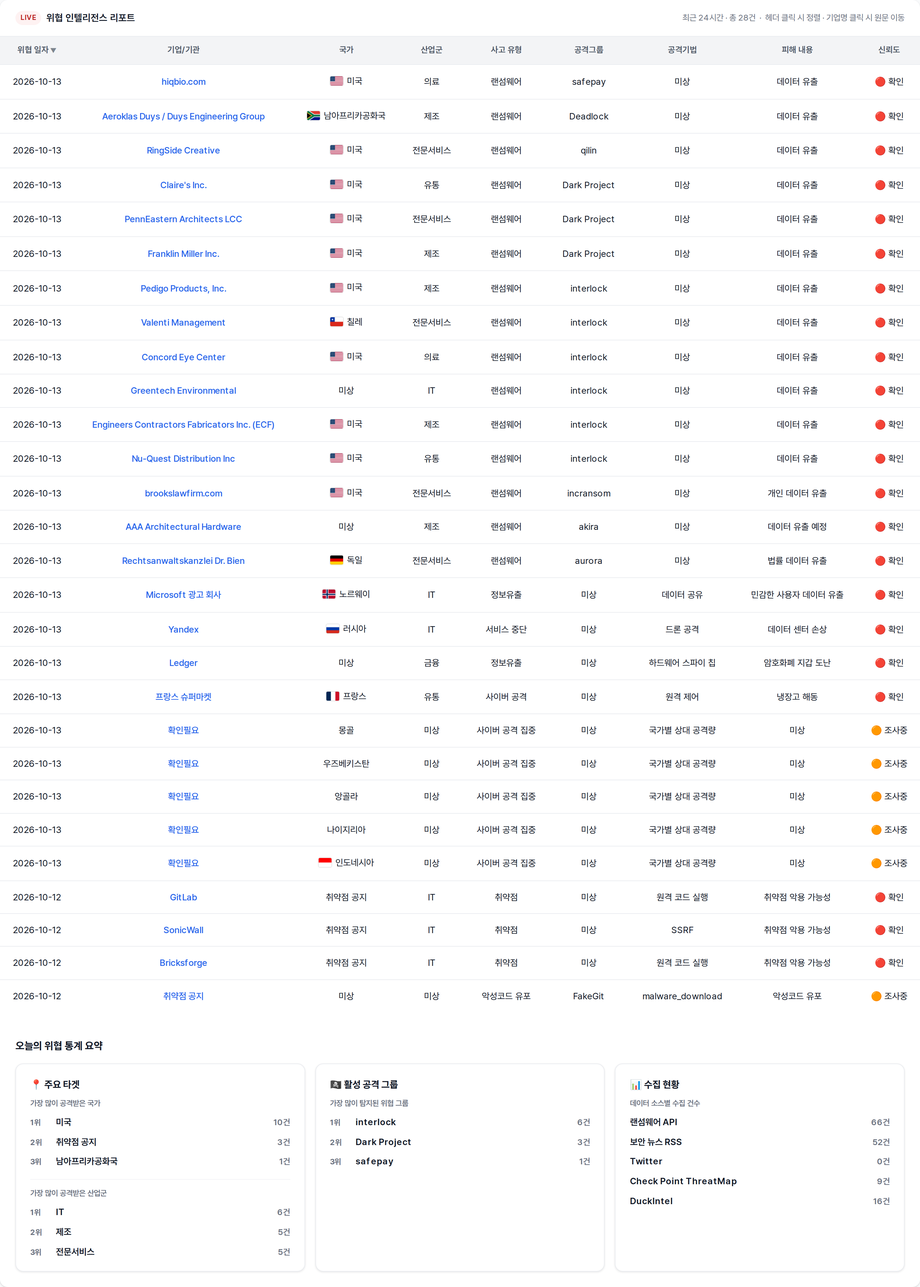
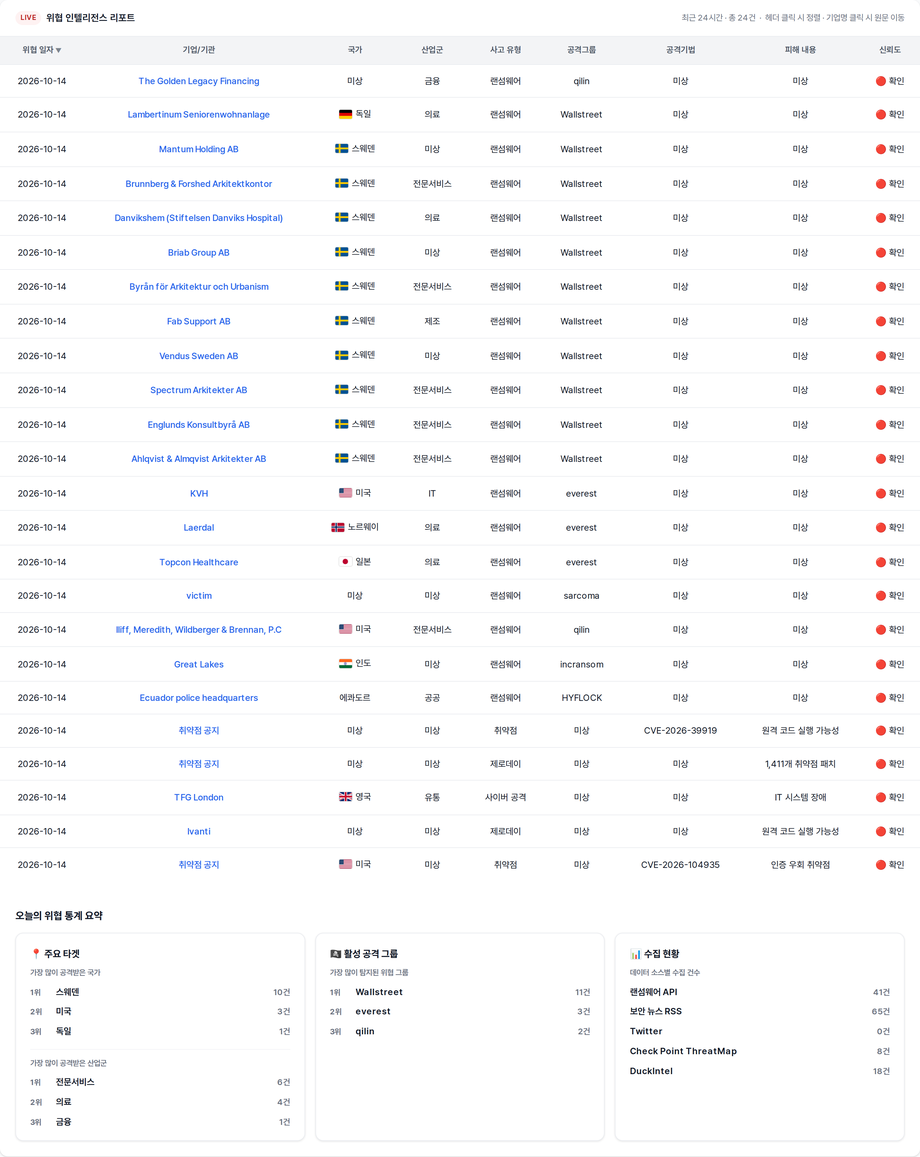
deploy: 9c533ad8fcaa3f846a31aadab046301a26f1192c

diff --git a/index.html b/index.html
@@ -3,7 +3,7 @@
 <head>
   <meta charset="UTF-8" />
   <meta name="viewport" content="width=device-width, initial-scale=1.0" />
-  <title>🚨 2026년 10월 13일 국내/해외 사이버 위협 현황</title>
+  <title>🚨 2026년 10월 14일 국내/해외 사이버 위협 현황</title>
   <link rel="preconnect" href="https://cdn.jsdelivr.net" />
   <link href="https://cdn.jsdelivr.net/gh/orioncactus/pretendard/dist/web/static/pretendard.css" rel="stylesheet" />
   <style>
@@ -253,7 +253,7 @@
 </head>
 <body>
   <div class="page-header">
-    <h1 class="page-title">🚨 2026년 10월 13일 국내/해외 사이버 위협 현황</h1>
+    <h1 class="page-title">🚨 2026년 10월 14일 국내/해외 사이버 위협 현황</h1>
   </div>
 
   <div class="dashboard">
@@ -261,40 +261,36 @@
     <div class="card-header">
       <span class="badge">LIVE</span>
       <span class="card-title">위협 인텔리전스 리포트</span>
-      <span class="card-count">최근 24시간 · 총 28건 &nbsp;·&nbsp; 헤더 클릭 시 정렬 · 기업명 클릭 시 원문 이동</span>
+      <span class="card-count">최근 24시간 · 총 24건 &nbsp;·&nbsp; 헤더 클릭 시 정렬 · 기업명 클릭 시 원문 이동</span>
     </div>
     <div class="table-wrap" style="overflow-x: auto; -webkit-overflow-scrolling: touch;">
       <table id="threat-table">
         <thead><tr><th onclick="sortTable(0)" data-col="0" class="sort-desc">위협 일자</th><th onclick="sortTable(1)" data-col="1">기업/기관</th><th onclick="sortTable(2)" data-col="2">국가</th><th onclick="sortTable(3)" data-col="3">산업군</th><th onclick="sortTable(4)" data-col="4">사고 유형</th><th onclick="sortTable(5)" data-col="5">공격그룹</th><th onclick="sortTable(6)" data-col="6">공격기법</th><th onclick="sortTable(7)" data-col="7">피해 내용</th><th onclick="sortTable(8)" data-col="8">신뢰도</th></tr></thead>
         <tbody>
-<tr><td>2026-10-13</td><td><a href="https://www.ransomware.live/id/aGlxYmlvLmNvbUBzYWZlcGF5" target="_blank" rel="noopener noreferrer">hiqbio.com</a></td><td class="country"><span class="country-cell"><img class="flag" src="https://flagcdn.com/w40/us.png" alt="미국" width="20" height="14" />미국</span></td><td>의료</td><td>랜섬웨어</td><td>safepay</td><td>미상</td><td>데이터 유출</td><td>🔴 확인</td></tr>
-<tr><td>2026-10-13</td><td><a href="https://www.ransomware.live/id/QWVyb2tsYXMgRHV5cyAvIER1eXMgRW5naW5lZXJpbmcgR3JvdXBARGVhZGxvY2s=" target="_blank" rel="noopener noreferrer">Aeroklas Duys / Duys Engineering Group</a></td><td class="country"><span class="country-cell"><img class="flag" src="https://flagcdn.com/w40/za.png" alt="남아프리카공화국" width="20" height="14" />남아프리카공화국</span></td><td>제조</td><td>랜섬웨어</td><td>Deadlock</td><td>미상</td><td>데이터 유출</td><td>🔴 확인</td></tr>
-<tr><td>2026-10-13</td><td><a href="https://www.ransomware.live/id/UmluZ1NpZGUgQ3JlYXRpdmVAcWlsaW4=" target="_blank" rel="noopener noreferrer">RingSide Creative</a></td><td class="country"><span class="country-cell"><img class="flag" src="https://flagcdn.com/w40/us.png" alt="미국" width="20" height="14" />미국</span></td><td>전문서비스</td><td>랜섬웨어</td><td>qilin</td><td>미상</td><td>데이터 유출</td><td>🔴 확인</td></tr>
-<tr><td>2026-10-13</td><td><a href="https://www.ransomware.live/id/Q2xhaXJlJ3MgSW5jLkBEYXJrIFByb2plY3Q=" target="_blank" rel="noopener noreferrer">Claire&#x27;s Inc.</a></td><td class="country"><span class="country-cell"><img class="flag" src="https://flagcdn.com/w40/us.png" alt="미국" width="20" height="14" />미국</span></td><td>유통</td><td>랜섬웨어</td><td>Dark Project</td><td>미상</td><td>데이터 유출</td><td>🔴 확인</td></tr>
-<tr><td>2026-10-13</td><td><a href="https://www.ransomware.live/id/UGVubkVhc3Rlcm4gQXJjaGl0ZWN0cyBMQ0NARGFyayBQcm9qZWN0" target="_blank" rel="noopener noreferrer">PennEastern Architects LCC</a></td><td class="country"><span class="country-cell"><img class="flag" src="https://flagcdn.com/w40/us.png" alt="미국" width="20" height="14" />미국</span></td><td>전문서비스</td><td>랜섬웨어</td><td>Dark Project</td><td>미상</td><td>데이터 유출</td><td>🔴 확인</td></tr>
-<tr><td>2026-10-13</td><td><a href="https://www.ransomware.live/id/RnJhbmtsaW4gTWlsbGVyIEluYy5ARGFyayBQcm9qZWN0" target="_blank" rel="noopener noreferrer">Franklin Miller Inc.</a></td><td class="country"><span class="country-cell"><img class="flag" src="https://flagcdn.com/w40/us.png" alt="미국" width="20" height="14" />미국</span></td><td>제조</td><td>랜섬웨어</td><td>Dark Project</td><td>미상</td><td>데이터 유출</td><td>🔴 확인</td></tr>
-<tr><td>2026-10-13</td><td><a href="https://www.ransomware.live/id/UGVkaWdvIFByb2R1Y3RzLCBJbmMuQGludGVybG9jaw==" target="_blank" rel="noopener noreferrer">Pedigo Products, Inc.</a></td><td class="country"><span class="country-cell"><img class="flag" src="https://flagcdn.com/w40/us.png" alt="미국" width="20" height="14" />미국</span></td><td>제조</td><td>랜섬웨어</td><td>interlock</td><td>미상</td><td>데이터 유출</td><td>🔴 확인</td></tr>
-<tr><td>2026-10-13</td><td><a href="https://www.ransomware.live/id/VmFsZW50aSBNYW5hZ2VtZW50QGludGVybG9jaw==" target="_blank" rel="noopener noreferrer">Valenti Management</a></td><td class="country"><span class="country-cell"><img class="flag" src="https://flagcdn.com/w40/cl.png" alt="칠레" width="20" height="14" />칠레</span></td><td>전문서비스</td><td>랜섬웨어</td><td>interlock</td><td>미상</td><td>데이터 유출</td><td>🔴 확인</td></tr>
-<tr><td>2026-10-13</td><td><a href="https://www.ransomware.live/id/Q29uY29yZCBFeWUgQ2VudGVyQGludGVybG9jaw==" target="_blank" rel="noopener noreferrer">Concord Eye Center</a></td><td class="country"><span class="country-cell"><img class="flag" src="https://flagcdn.com/w40/us.png" alt="미국" width="20" height="14" />미국</span></td><td>의료</td><td>랜섬웨어</td><td>interlock</td><td>미상</td><td>데이터 유출</td><td>🔴 확인</td></tr>
-<tr><td>2026-10-13</td><td><a href="https://www.ransomware.live/id/R3JlZW50ZWNoIEVudmlyb25tZW50YWxAaW50ZXJsb2Nr" target="_blank" rel="noopener noreferrer">Greentech Environmental</a></td><td class="country"><span class="country-cell">미상</span></td><td>IT</td><td>랜섬웨어</td><td>interlock</td><td>미상</td><td>데이터 유출</td><td>🔴 확인</td></tr>
-<tr><td>2026-10-13</td><td><a href="https://www.ransomware.live/id/RW5naW5lZXJzIENvbnRyYWN0b3JzIEZhYnJpY2F0b3JzIEluYy4gKEVDRilAaW50ZXJsb2Nr" target="_blank" rel="noopener noreferrer">Engineers Contractors Fabricators Inc. (ECF)</a></td><td class="country"><span class="country-cell"><img class="flag" src="https://flagcdn.com/w40/us.png" alt="미국" width="20" height="14" />미국</span></td><td>제조</td><td>랜섬웨어</td><td>interlock</td><td>미상</td><td>데이터 유출</td><td>🔴 확인</td></tr>
-<tr><td>2026-10-13</td><td><a href="https://www.ransomware.live/id/TnUtUXVlc3QgRGlzdHJpYnV0aW9uIEluY0BpbnRlcmxvY2s=" target="_blank" rel="noopener noreferrer">Nu-Quest Distribution Inc</a></td><td class="country"><span class="country-cell"><img class="flag" src="https://flagcdn.com/w40/us.png" alt="미국" width="20" height="14" />미국</span></td><td>유통</td><td>랜섬웨어</td><td>interlock</td><td>미상</td><td>데이터 유출</td><td>🔴 확인</td></tr>
-<tr><td>2026-10-13</td><td><a href="https://www.ransomware.live/id/YnJvb2tzbGF3ZmlybS5jb21AaW5jcmFuc29t" target="_blank" rel="noopener noreferrer">brookslawfirm.com</a></td><td class="country"><span class="country-cell"><img class="flag" src="https://flagcdn.com/w40/us.png" alt="미국" width="20" height="14" />미국</span></td><td>전문서비스</td><td>랜섬웨어</td><td>incransom</td><td>미상</td><td>개인 데이터 유출</td><td>🔴 확인</td></tr>
-<tr><td>2026-10-13</td><td><a href="https://www.ransomware.live/id/QUFBIEFyY2hpdGVjdHVyYWwgSGFyZHdhcmVAYWtpcmE=" target="_blank" rel="noopener noreferrer">AAA Architectural Hardware</a></td><td class="country"><span class="country-cell">미상</span></td><td>제조</td><td>랜섬웨어</td><td>akira</td><td>미상</td><td>데이터 유출 예정</td><td>🔴 확인</td></tr>
-<tr><td>2026-10-13</td><td><a href="https://www.ransomware.live/id/UmVjaHRzYW53YWx0c2thbnpsZWkgRHIuIEJpZW5AYXVyb3Jh" target="_blank" rel="noopener noreferrer">Rechtsanwaltskanzlei Dr. Bien</a></td><td class="country"><span class="country-cell"><img class="flag" src="https://flagcdn.com/w40/de.png" alt="독일" width="20" height="14" />독일</span></td><td>전문서비스</td><td>랜섬웨어</td><td>aurora</td><td>미상</td><td>법률 데이터 유출</td><td>🔴 확인</td></tr>
-<tr><td>2026-10-13</td><td><a href="https://www.bleepingcomputer.com/news/security/norway-fines-microsoft-ad-firm-96-million-over-grindr-data-sharing/" target="_blank" rel="noopener noreferrer">Microsoft 광고 회사</a></td><td class="country"><span class="country-cell"><img class="flag" src="https://flagcdn.com/w40/no.png" alt="노르웨이" width="20" height="14" />노르웨이</span></td><td>IT</td><td>정보유출</td><td>미상</td><td>데이터 공유</td><td>민감한 사용자 데이터 유출</td><td>🔴 확인</td></tr>
-<tr><td>2026-10-13</td><td><a href="https://www.bleepingcomputer.com/news/security/yandex-confirms-service-outage-as-users-lose-access-to-cloud-files/" target="_blank" rel="noopener noreferrer">Yandex</a></td><td class="country"><span class="country-cell"><img class="flag" src="https://flagcdn.com/w40/ru.png" alt="러시아" width="20" height="14" />러시아</span></td><td>IT</td><td>서비스 중단</td><td>미상</td><td>드론 공격</td><td>데이터 센터 손상</td><td>🔴 확인</td></tr>
-<tr><td>2026-10-13</td><td><a href="https://www.bleepingcomputer.com/news/security/ledger-confirms-hardware-wallet-spy-implant-behind-crypto-thefts/" target="_blank" rel="noopener noreferrer">Ledger</a></td><td class="country"><span class="country-cell">미상</span></td><td>금융</td><td>정보유출</td><td>미상</td><td>하드웨어 스파이 칩</td><td>암호화폐 지갑 도난</td><td>🔴 확인</td></tr>
-<tr><td>2026-10-13</td><td><a href="https://www.bleepingcomputer.com/news/security/cyberattack-shuts-down-refrigerators-at-french-supermarkets/" target="_blank" rel="noopener noreferrer">프랑스 슈퍼마켓</a></td><td class="country"><span class="country-cell"><img class="flag" src="https://flagcdn.com/w40/fr.png" alt="프랑스" width="20" height="14" />프랑스</span></td><td>유통</td><td>사이버 공격</td><td>미상</td><td>원격 제어</td><td>냉장고 해동</td><td>🔴 확인</td></tr>
-<tr><td>2026-10-13</td><td><a href="https://threatmap.checkpoint.com/" target="_blank" rel="noopener noreferrer">확인필요</a></td><td class="country"><span class="country-cell">몽골</span></td><td>미상</td><td>사이버 공격 집중</td><td>미상</td><td>국가별 상대 공격량</td><td>미상</td><td>🟠 조사중</td></tr>
-<tr><td>2026-10-13</td><td><a href="https://threatmap.checkpoint.com/" target="_blank" rel="noopener noreferrer">확인필요</a></td><td class="country"><span class="country-cell">우즈베키스탄</span></td><td>미상</td><td>사이버 공격 집중</td><td>미상</td><td>국가별 상대 공격량</td><td>미상</td><td>🟠 조사중</td></tr>
-<tr><td>2026-10-13</td><td><a href="https://threatmap.checkpoint.com/" target="_blank" rel="noopener noreferrer">확인필요</a></td><td class="country"><span class="country-cell">앙골라</span></td><td>미상</td><td>사이버 공격 집중</td><td>미상</td><td>국가별 상대 공격량</td><td>미상</td><td>🟠 조사중</td></tr>
-<tr><td>2026-10-13</td><td><a href="https://threatmap.checkpoint.com/" target="_blank" rel="noopener noreferrer">확인필요</a></td><td class="country"><span class="country-cell">나이지리아</span></td><td>미상</td><td>사이버 공격 집중</td><td>미상</td><td>국가별 상대 공격량</td><td>미상</td><td>🟠 조사중</td></tr>
-<tr><td>2026-10-13</td><td><a href="https://threatmap.checkpoint.com/" target="_blank" rel="noopener noreferrer">확인필요</a></td><td class="country"><span class="country-cell"><img class="flag" src="https://flagcdn.com/w40/id.png" alt="인도네시아" width="20" height="14" />인도네시아</span></td><td>미상</td><td>사이버 공격 집중</td><td>미상</td><td>국가별 상대 공격량</td><td>미상</td><td>🟠 조사중</td></tr>
-<tr><td>2026-10-12</td><td><a href="https://www.bleepingcomputer.com/news/security/gitlab-warns-of-max-severity-rce-flaw-in-regex-compiler-engine/" target="_blank" rel="noopener noreferrer">GitLab</a></td><td class="country"><span class="country-cell">취약점 공지</span></td><td>IT</td><td>취약점</td><td>미상</td><td>원격 코드 실행</td><td>취약점 악용 가능성</td><td>🔴 확인</td></tr>
-<tr><td>2026-10-12</td><td><a href="https://thehackernews.com/2026/10/critical-sonicwall-sma-1000-flaw.html" target="_blank" rel="noopener noreferrer">SonicWall</a></td><td class="country"><span class="country-cell">취약점 공지</span></td><td>IT</td><td>취약점</td><td>미상</td><td>SSRF</td><td>취약점 악용 가능성</td><td>🔴 확인</td></tr>
-<tr><td>2026-10-12</td><td><a href="https://thehackernews.com/2026/10/attackers-exploit-cvss-100-bricksforge.html" target="_blank" rel="noopener noreferrer">Bricksforge</a></td><td class="country"><span class="country-cell">취약점 공지</span></td><td>IT</td><td>취약점</td><td>미상</td><td>원격 코드 실행</td><td>취약점 악용 가능성</td><td>🔴 확인</td></tr>
-<tr><td>2026-10-12</td><td><a href="https://urlhaus.abuse.ch/url/3948234/" target="_blank" rel="noopener noreferrer">취약점 공지</a></td><td class="country"><span class="country-cell">미상</span></td><td>미상</td><td>악성코드 유포</td><td>FakeGit</td><td>malware_download</td><td>악성코드 유포</td><td>🟠 조사중</td></tr>
+<tr><td>2026-10-14</td><td><a href="https://www.ransomware.live/id/VGhlIEdvbGRlbiBMZWdhY3kgRmluYW5jaW5nQHFpbGlu" target="_blank" rel="noopener noreferrer">The Golden Legacy Financing</a></td><td class="country"><span class="country-cell">미상</span></td><td>금융</td><td>랜섬웨어</td><td>qilin</td><td>미상</td><td>미상</td><td>🔴 확인</td></tr>
+<tr><td>2026-10-14</td><td><a href="https://www.ransomware.live/id/TGFtYmVydGludW0gU2VuaW9yZW53b2huYW5sYWdlQFdhbGxzdHJlZXQ=" target="_blank" rel="noopener noreferrer">Lambertinum Seniorenwohnanlage</a></td><td class="country"><span class="country-cell"><img class="flag" src="https://flagcdn.com/w40/de.png" alt="독일" width="20" height="14" />독일</span></td><td>의료</td><td>랜섬웨어</td><td>Wallstreet</td><td>미상</td><td>미상</td><td>🔴 확인</td></tr>
+<tr><td>2026-10-14</td><td><a href="https://www.ransomware.live/id/TWFudHVtIEhvbGRpbmcgQUJAV2FsbHN0cmVldA==" target="_blank" rel="noopener noreferrer">Mantum Holding AB</a></td><td class="country"><span class="country-cell"><img class="flag" src="https://flagcdn.com/w40/se.png" alt="스웨덴" width="20" height="14" />스웨덴</span></td><td>미상</td><td>랜섬웨어</td><td>Wallstreet</td><td>미상</td><td>미상</td><td>🔴 확인</td></tr>
+<tr><td>2026-10-14</td><td><a href="https://www.ransomware.live/id/QnJ1bm5iZXJnICYgRm9yc2hlZCBBcmtpdGVrdGtvbnRvckBXYWxsc3RyZWV0" target="_blank" rel="noopener noreferrer">Brunnberg &amp; Forshed Arkitektkontor</a></td><td class="country"><span class="country-cell"><img class="flag" src="https://flagcdn.com/w40/se.png" alt="스웨덴" width="20" height="14" />스웨덴</span></td><td>전문서비스</td><td>랜섬웨어</td><td>Wallstreet</td><td>미상</td><td>미상</td><td>🔴 확인</td></tr>
+<tr><td>2026-10-14</td><td><a href="https://www.ransomware.live/id/RGFudmlrc2hlbSAoU3RpZnRlbHNlbiBEYW52aWtzIEhvc3BpdGFsKUBXYWxsc3RyZWV0" target="_blank" rel="noopener noreferrer">Danvikshem (Stiftelsen Danviks Hospital)</a></td><td class="country"><span class="country-cell"><img class="flag" src="https://flagcdn.com/w40/se.png" alt="스웨덴" width="20" height="14" />스웨덴</span></td><td>의료</td><td>랜섬웨어</td><td>Wallstreet</td><td>미상</td><td>미상</td><td>🔴 확인</td></tr>
+<tr><td>2026-10-14</td><td><a href="https://www.ransomware.live/id/QnJpYWIgR3JvdXAgQUJAV2FsbHN0cmVldA==" target="_blank" rel="noopener noreferrer">Briab Group AB</a></td><td class="country"><span class="country-cell"><img class="flag" src="https://flagcdn.com/w40/se.png" alt="스웨덴" width="20" height="14" />스웨덴</span></td><td>미상</td><td>랜섬웨어</td><td>Wallstreet</td><td>미상</td><td>미상</td><td>🔴 확인</td></tr>
+<tr><td>2026-10-14</td><td><a href="https://www.ransomware.live/id/Qnlyw6VuIGbDtnIgQXJraXRla3R1ciBvY2ggVXJiYW5pc21AV2FsbHN0cmVldA==" target="_blank" rel="noopener noreferrer">Byrån för Arkitektur och Urbanism</a></td><td class="country"><span class="country-cell"><img class="flag" src="https://flagcdn.com/w40/se.png" alt="스웨덴" width="20" height="14" />스웨덴</span></td><td>전문서비스</td><td>랜섬웨어</td><td>Wallstreet</td><td>미상</td><td>미상</td><td>🔴 확인</td></tr>
+<tr><td>2026-10-14</td><td><a href="https://www.ransomware.live/id/RmFiIFN1cHBvcnQgQUJAV2FsbHN0cmVldA==" target="_blank" rel="noopener noreferrer">Fab Support AB</a></td><td class="country"><span class="country-cell"><img class="flag" src="https://flagcdn.com/w40/se.png" alt="스웨덴" width="20" height="14" />스웨덴</span></td><td>제조</td><td>랜섬웨어</td><td>Wallstreet</td><td>미상</td><td>미상</td><td>🔴 확인</td></tr>
+<tr><td>2026-10-14</td><td><a href="https://www.ransomware.live/id/VmVuZHVzIFN3ZWRlbiBBQkBXYWxsc3RyZWV0" target="_blank" rel="noopener noreferrer">Vendus Sweden AB</a></td><td class="country"><span class="country-cell"><img class="flag" src="https://flagcdn.com/w40/se.png" alt="스웨덴" width="20" height="14" />스웨덴</span></td><td>미상</td><td>랜섬웨어</td><td>Wallstreet</td><td>미상</td><td>미상</td><td>🔴 확인</td></tr>
+<tr><td>2026-10-14</td><td><a href="https://www.ransomware.live/id/U3BlY3RydW0gQXJraXRla3RlciBBQkBXYWxsc3RyZWV0" target="_blank" rel="noopener noreferrer">Spectrum Arkitekter AB</a></td><td class="country"><span class="country-cell"><img class="flag" src="https://flagcdn.com/w40/se.png" alt="스웨덴" width="20" height="14" />스웨덴</span></td><td>전문서비스</td><td>랜섬웨어</td><td>Wallstreet</td><td>미상</td><td>미상</td><td>🔴 확인</td></tr>
+<tr><td>2026-10-14</td><td><a href="https://www.ransomware.live/id/RW5nbHVuZHMgS29uc3VsdGJ5csOlIEFCQFdhbGxzdHJlZXQ=" target="_blank" rel="noopener noreferrer">Englunds Konsultbyrå AB</a></td><td class="country"><span class="country-cell"><img class="flag" src="https://flagcdn.com/w40/se.png" alt="스웨덴" width="20" height="14" />스웨덴</span></td><td>전문서비스</td><td>랜섬웨어</td><td>Wallstreet</td><td>미상</td><td>미상</td><td>🔴 확인</td></tr>
+<tr><td>2026-10-14</td><td><a href="https://www.ransomware.live/id/QWhscXZpc3QgJiBBbG1xdmlzdCBBcmtpdGVrdGVyIEFCQFdhbGxzdHJlZXQ=" target="_blank" rel="noopener noreferrer">Ahlqvist &amp; Almqvist Arkitekter AB</a></td><td class="country"><span class="country-cell"><img class="flag" src="https://flagcdn.com/w40/se.png" alt="스웨덴" width="20" height="14" />스웨덴</span></td><td>전문서비스</td><td>랜섬웨어</td><td>Wallstreet</td><td>미상</td><td>미상</td><td>🔴 확인</td></tr>
+<tr><td>2026-10-14</td><td><a href="https://www.ransomware.live/id/S1ZIQGV2ZXJlc3Q=" target="_blank" rel="noopener noreferrer">KVH</a></td><td class="country"><span class="country-cell"><img class="flag" src="https://flagcdn.com/w40/us.png" alt="미국" width="20" height="14" />미국</span></td><td>IT</td><td>랜섬웨어</td><td>everest</td><td>미상</td><td>미상</td><td>🔴 확인</td></tr>
+<tr><td>2026-10-14</td><td><a href="https://www.ransomware.live/id/TGFlcmRhbEBldmVyZXN0" target="_blank" rel="noopener noreferrer">Laerdal</a></td><td class="country"><span class="country-cell"><img class="flag" src="https://flagcdn.com/w40/no.png" alt="노르웨이" width="20" height="14" />노르웨이</span></td><td>의료</td><td>랜섬웨어</td><td>everest</td><td>미상</td><td>미상</td><td>🔴 확인</td></tr>
+<tr><td>2026-10-14</td><td><a href="https://www.ransomware.live/id/VG9wY29uIEhlYWx0aGNhcmVAZXZlcmVzdA==" target="_blank" rel="noopener noreferrer">Topcon Healthcare</a></td><td class="country"><span class="country-cell"><img class="flag" src="https://flagcdn.com/w40/jp.png" alt="일본" width="20" height="14" />일본</span></td><td>의료</td><td>랜섬웨어</td><td>everest</td><td>미상</td><td>미상</td><td>🔴 확인</td></tr>
+<tr><td>2026-10-14</td><td><a href="https://www.ransomware.live/id/dmljdGltQHNhcmNvbWE=" target="_blank" rel="noopener noreferrer">victim</a></td><td class="country"><span class="country-cell">미상</span></td><td>미상</td><td>랜섬웨어</td><td>sarcoma</td><td>미상</td><td>미상</td><td>🔴 확인</td></tr>
+<tr><td>2026-10-14</td><td><a href="https://www.ransomware.live/id/SWxpZmYsIE1lcmVkaXRoLCBXaWxkYmVyZ2VyICYgQnJlbm5hbiwgUC5DQHFpbGlu" target="_blank" rel="noopener noreferrer">Iliff, Meredith, Wildberger &amp; Brennan, P.C</a></td><td class="country"><span class="country-cell"><img class="flag" src="https://flagcdn.com/w40/us.png" alt="미국" width="20" height="14" />미국</span></td><td>전문서비스</td><td>랜섬웨어</td><td>qilin</td><td>미상</td><td>미상</td><td>🔴 확인</td></tr>
+<tr><td>2026-10-14</td><td><a href="https://www.ransomware.live/id/R3JlYXQgTGFrZXNAaW5jcmFuc29t" target="_blank" rel="noopener noreferrer">Great Lakes</a></td><td class="country"><span class="country-cell"><img class="flag" src="https://flagcdn.com/w40/in.png" alt="인도" width="20" height="14" />인도</span></td><td>미상</td><td>랜섬웨어</td><td>incransom</td><td>미상</td><td>미상</td><td>🔴 확인</td></tr>
+<tr><td>2026-10-14</td><td><a href="https://www.ransomware.live/id/RWN1YWRvciBwb2xpY2UgaGVhZHF1YXJ0ZXJzQEhZRkxPQ0s=" target="_blank" rel="noopener noreferrer">Ecuador police headquarters</a></td><td class="country"><span class="country-cell">에콰도르</span></td><td>공공</td><td>랜섬웨어</td><td>HYFLOCK</td><td>미상</td><td>미상</td><td>🔴 확인</td></tr>
+<tr><td>2026-10-14</td><td><a href="https://www.bleepingcomputer.com/news/security/ghostscript-flaw-lets-hackers-hijack-servers-via-pdf-uploads/" target="_blank" rel="noopener noreferrer">취약점 공지</a></td><td class="country"><span class="country-cell">미상</span></td><td>미상</td><td>취약점</td><td>미상</td><td>CVE-2026-39919</td><td>원격 코드 실행 가능성</td><td>🔴 확인</td></tr>
+<tr><td>2026-10-14</td><td><a href="https://www.bleepingcomputer.com/news/microsoft/microsoft-october-2026-patch-tuesday-fixes-1-411-flaws-3-zero-days/" target="_blank" rel="noopener noreferrer">취약점 공지</a></td><td class="country"><span class="country-cell">미상</span></td><td>미상</td><td>제로데이</td><td>미상</td><td>미상</td><td>1,411개 취약점 패치</td><td>🔴 확인</td></tr>
+<tr><td>2026-10-14</td><td><a href="https://www.bleepingcomputer.com/news/security/tfg-london-cyberattack-disrupts-systems-at-hobbs-and-whistles-retailers/" target="_blank" rel="noopener noreferrer">TFG London</a></td><td class="country"><span class="country-cell"><img class="flag" src="https://flagcdn.com/w40/gb.png" alt="영국" width="20" height="14" />영국</span></td><td>유통</td><td>사이버 공격</td><td>미상</td><td>미상</td><td>IT 시스템 장애</td><td>🔴 확인</td></tr>
+<tr><td>2026-10-14</td><td><a href="https://www.bleepingcomputer.com/news/security/ivanti-warns-of-connect-secure-zero-day-exploited-in-attacks/" target="_blank" rel="noopener noreferrer">Ivanti</a></td><td class="country"><span class="country-cell">미상</span></td><td>미상</td><td>제로데이</td><td>미상</td><td>미상</td><td>원격 코드 실행 가능성</td><td>🔴 확인</td></tr>
+<tr><td>2026-10-14</td><td><a href="https://nvd.nist.gov/vuln/detail/CVE-2026-104935" target="_blank" rel="noopener noreferrer">취약점 공지</a></td><td class="country"><span class="country-cell"><img class="flag" src="https://flagcdn.com/w40/us.png" alt="미국" width="20" height="14" />미국</span></td><td>미상</td><td>취약점</td><td>미상</td><td>CVE-2026-104935</td><td>인증 우회 취약점</td><td>🔴 확인</td></tr>
         </tbody>
       </table>
     </div>
@@ -305,19 +301,19 @@
       <article class="stat-card">
         <h3 class="stat-title">📍 주요 타겟</h3>
         <p class="stat-subtitle">가장 많이 공격받은 국가</p>
-        <ol class="stat-list"><li><span class="stat-rank">1위</span><span class="stat-name">미국</span><span class="stat-count">10건</span></li><li><span class="stat-rank">2위</span><span class="stat-name">취약점 공지</span><span class="stat-count">3건</span></li><li><span class="stat-rank">3위</span><span class="stat-name">남아프리카공화국</span><span class="stat-count">1건</span></li></ol>
+        <ol class="stat-list"><li><span class="stat-rank">1위</span><span class="stat-name">스웨덴</span><span class="stat-count">10건</span></li><li><span class="stat-rank">2위</span><span class="stat-name">미국</span><span class="stat-count">3건</span></li><li><span class="stat-rank">3위</span><span class="stat-name">독일</span><span class="stat-count">1건</span></li></ol>
         <p class="stat-subtitle stat-subtitle-gap">가장 많이 공격받은 산업군</p>
-        <ol class="stat-list"><li><span class="stat-rank">1위</span><span class="stat-name">IT</span><span class="stat-count">6건</span></li><li><span class="stat-rank">2위</span><span class="stat-name">제조</span><span class="stat-count">5건</span></li><li><span class="stat-rank">3위</span><span class="stat-name">전문서비스</span><span class="stat-count">5건</span></li></ol>
+        <ol class="stat-list"><li><span class="stat-rank">1위</span><span class="stat-name">전문서비스</span><span class="stat-count">6건</span></li><li><span class="stat-rank">2위</span><span class="stat-name">의료</span><span class="stat-count">4건</span></li><li><span class="stat-rank">3위</span><span class="stat-name">금융</span><span class="stat-count">1건</span></li></ol>
       </article>
       <article class="stat-card">
         <h3 class="stat-title">🏴☠ 활성 공격 그룹</h3>
         <p class="stat-subtitle">가장 많이 탐지된 위협 그룹</p>
-        <ol class="stat-list"><li><span class="stat-rank">1위</span><span class="stat-name">interlock</span><span class="stat-count">6건</span></li><li><span class="stat-rank">2위</span><span class="stat-name">Dark Project</span><span class="stat-count">3건</span></li><li><span class="stat-rank">3위</span><span class="stat-name">safepay</span><span class="stat-count">1건</span></li></ol>
+        <ol class="stat-list"><li><span class="stat-rank">1위</span><span class="stat-name">Wallstreet</span><span class="stat-count">11건</span></li><li><span class="stat-rank">2위</span><span class="stat-name">everest</span><span class="stat-count">3건</span></li><li><span class="stat-rank">3위</span><span class="stat-name">qilin</span><span class="stat-count">2건</span></li></ol>
       </article>
       <article class="stat-card">
         <h3 class="stat-title">📊 수집 현황</h3>
         <p class="stat-subtitle">데이터 소스별 수집 건수</p>
-        <ul class="stat-list stat-sources"><li><span class="stat-name">랜섬웨어 API</span><span class="stat-count">66건</span></li><li><span class="stat-name">보안 뉴스 RSS</span><span class="stat-count">52건</span></li><li><span class="stat-name">Twitter</span><span class="stat-count">0건</span></li><li><span class="stat-name">Check Point ThreatMap</span><span class="stat-count">9건</span></li><li><span class="stat-name">DuckIntel</span><span class="stat-count">16건</span></li></ul>
+        <ul class="stat-list stat-sources"><li><span class="stat-name">랜섬웨어 API</span><span class="stat-count">41건</span></li><li><span class="stat-name">보안 뉴스 RSS</span><span class="stat-count">65건</span></li><li><span class="stat-name">Twitter</span><span class="stat-count">0건</span></li><li><span class="stat-name">Check Point ThreatMap</span><span class="stat-count">8건</span></li><li><span class="stat-name">DuckIntel</span><span class="stat-count">18건</span></li></ul>
       </article>
     </div>
   </section>
